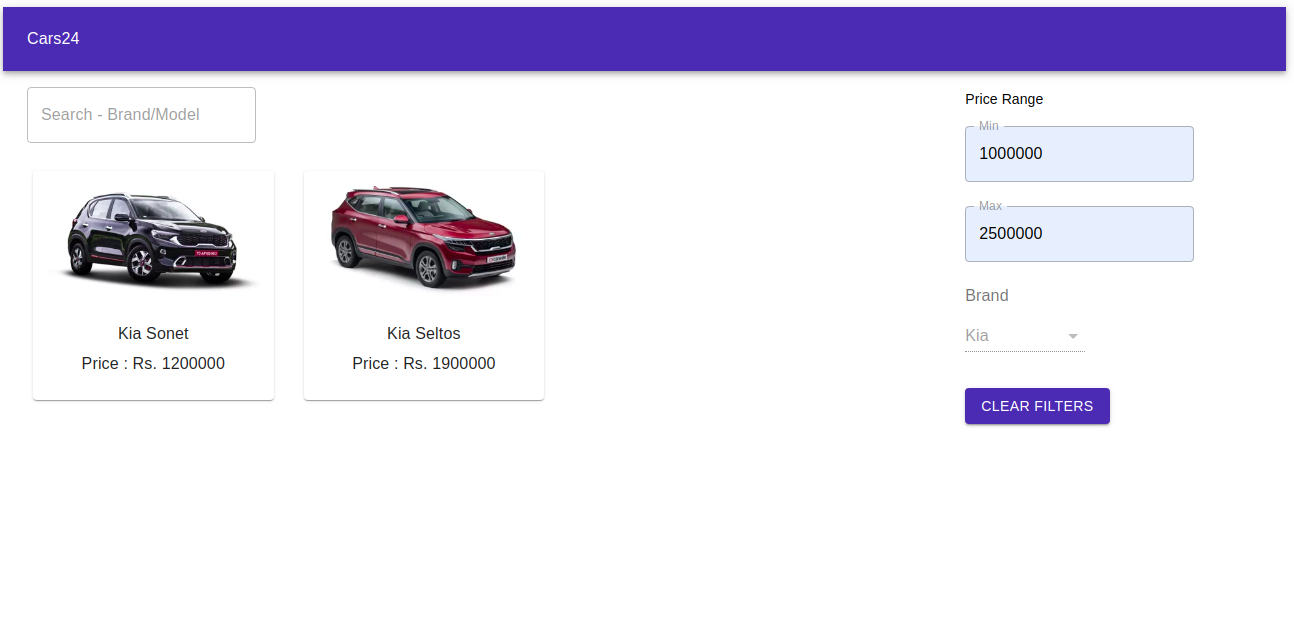
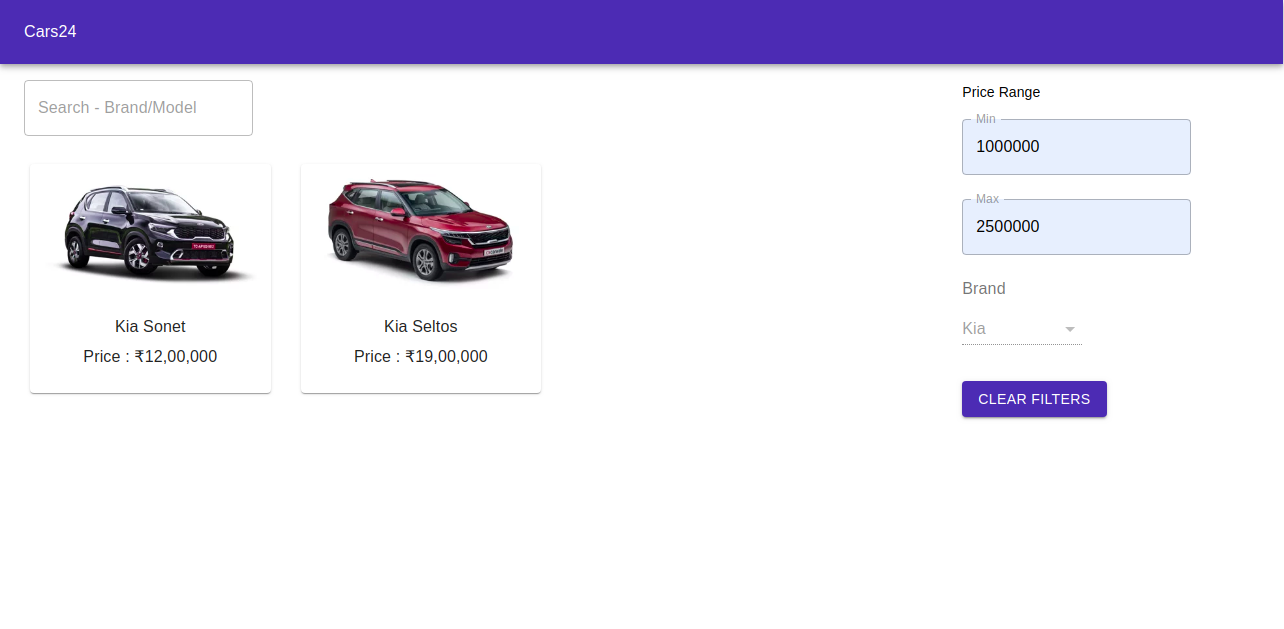
screenshot changes

diff --git a/src/components/Item.jsx b/src/components/Item.jsx
@@ -52,7 +52,10 @@ class ItemComponent extends Component {
                             {item.brand + " " + item.model} 
                         </Typography>
                         <Typography component="p" align ="center">
-                            Price : Rs. {item.price}
+                            Price : {new Intl.NumberFormat('en-IN', {
+                                            style: 'currency',
+                                            currency: 'INR',
+                                            maximumSignificantDigits: 3}).format(item.price)}
                         </Typography>
                     </CardContent>
                 </Card>
